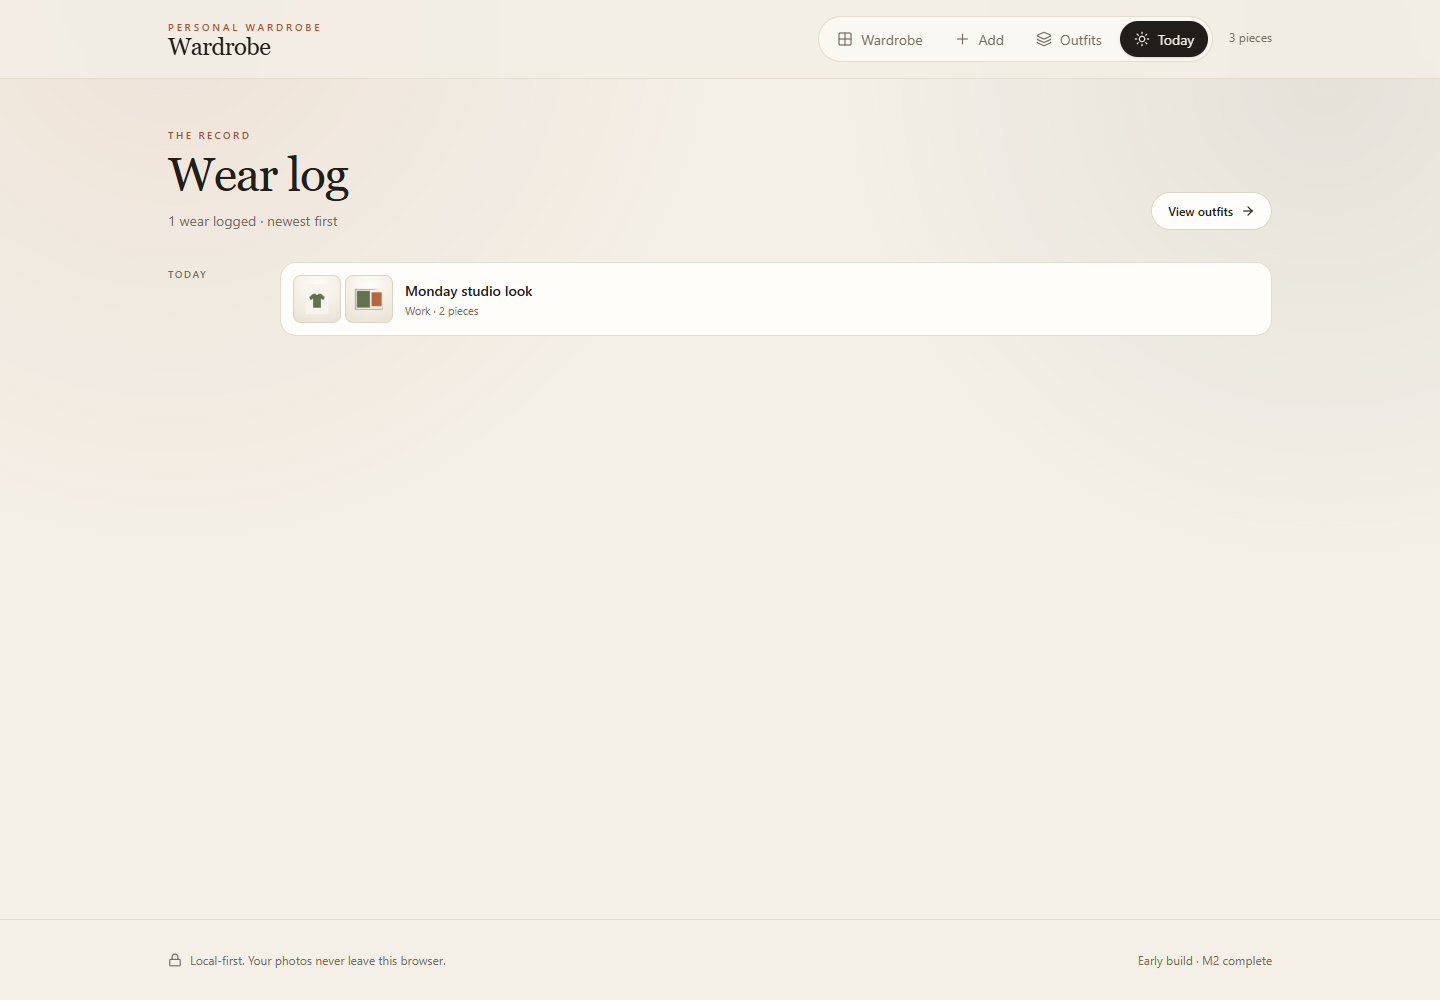
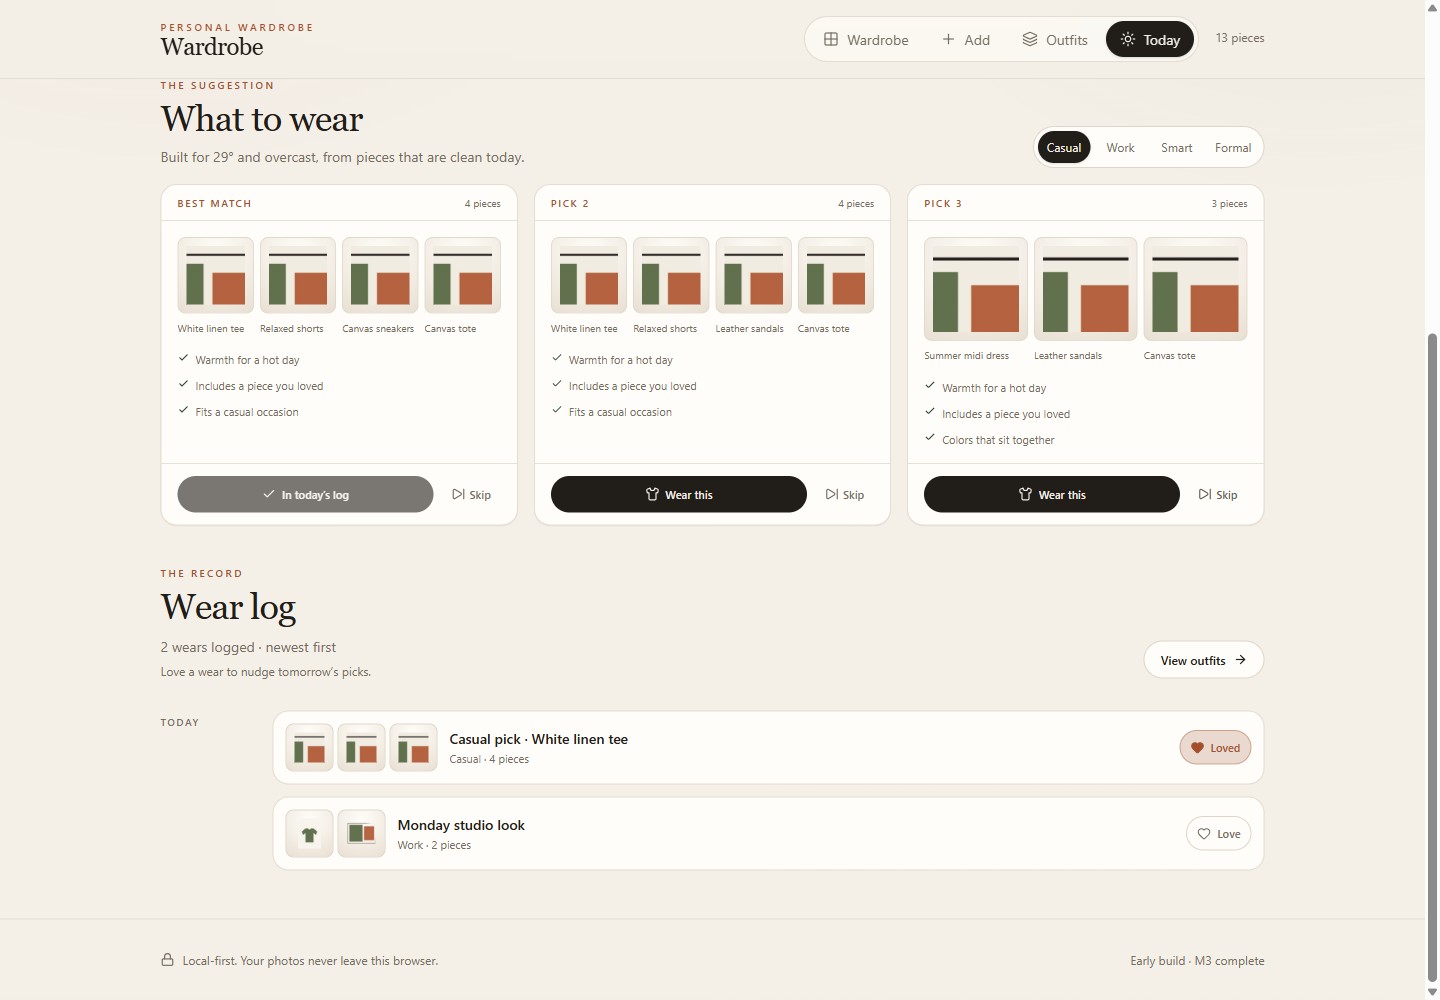
feat(wear): let a loved look shape tomorrow's picks

diff --git a/src/components/WearHistoryView.tsx b/src/components/WearHistoryView.tsx
@@ -1,10 +1,14 @@
 import { useLiveQuery } from 'dexie-react-hooks'
-import { ArrowRight, Sun } from 'lucide-react'
+import { ArrowRight, Heart, Sun } from 'lucide-react'
 import { useState } from 'react'
 import { db } from '../db'
 import { pieceCountLabel } from '../lib/outfits'
 import { buildWearHistory, describeWornOn } from '../lib/wear'
-import { OCCASION_LABELS, type WardrobeItem } from '../types'
+import {
+  OCCASION_LABELS,
+  type WardrobeItem,
+  type WearEvent,
+} from '../types'
 import { ItemThumbnail } from './ItemThumbnail'
 
 interface WearHistoryViewProps {
@@ -14,6 +18,8 @@ interface WearHistoryViewProps {
 
 export function WearHistoryView({ items, onSeeOutfits }: WearHistoryViewProps) {
   const [today] = useState(() => new Date())
+  const [pendingId, setPendingId] = useState<number | null>(null)
+  const [error, setError] = useState<string | null>(null)
   const outfits = useLiveQuery(() => db.outfits.toArray(), [])
   const events = useLiveQuery(
     () => db.wearEvents.orderBy('wornOn').reverse().toArray(),
@@ -22,6 +28,23 @@ export function WearHistoryView({ items, onSeeOutfits }: WearHistoryViewProps) {
 
   const entries =
     events && outfits ? buildWearHistory(events, outfits, items) : null
+
+  async function toggleLoved(event: WearEvent) {
+    if (event.id === undefined || pendingId !== null) return
+
+    setError(null)
+    setPendingId(event.id)
+
+    try {
+      await db.wearEvents.update(event.id, {
+        feedback: event.feedback === 'loved' ? undefined : 'loved',
+      })
+    } catch {
+      setError('Could not save that. Try again.')
+    } finally {
+      setPendingId(null)
+    }
+  }
 
   return (
     <div className="space-y-8">
@@ -40,6 +63,11 @@ export function WearHistoryView({ items, onSeeOutfits }: WearHistoryViewProps) {
                 : `${entries.length} ${entries.length === 1 ? 'wear' : 'wears'} logged · newest first`
               : 'Loading your wear log'}
           </p>
+          {entries && entries.length > 0 && (
+            <p className="mt-1.5 text-xs text-muted">
+              Love a wear to nudge tomorrow’s picks.
+            </p>
+          )}
         </div>
 
         {entries && entries.length > 0 && (
@@ -80,10 +108,21 @@ export function WearHistoryView({ items, onSeeOutfits }: WearHistoryViewProps) {
         </section>
       ) : (
         <section aria-label="Wear history" className="space-y-3">
+          {error && (
+            <p
+              role="alert"
+              className="rounded-xl border border-red-200 bg-red-50 px-3 py-2 text-xs leading-5 text-red-800"
+            >
+              {error}
+            </p>
+          )}
+
           {entries.map((entry, index) => {
             const showDate =
               index === 0 ||
               entries[index - 1].event.wornOn !== entry.event.wornOn
+            const loved = entry.event.feedback === 'loved'
+            const pending = pendingId === entry.event.id
 
             return (
               <div
@@ -125,6 +164,40 @@ export function WearHistoryView({ items, onSeeOutfits }: WearHistoryViewProps) {
                         : 'This look is no longer saved'}
                     </p>
                   </div>
+
+                  {entry.event.id !== undefined && (
+                    <button
+                      type="button"
+                      onClick={() => {
+                        void toggleLoved(entry.event)
+                      }}
+                      disabled={pendingId !== null}
+                      aria-pressed={loved}
+                      aria-label={
+                        loved
+                          ? 'Remove love from this wear'
+                          : 'Love this wear'
+                      }
+                      className={[
+                        'inline-flex shrink-0 items-center gap-1.5 rounded-full border px-2.5 py-2 text-[11px] font-medium transition focus-visible:outline-2 focus-visible:outline-offset-2 focus-visible:outline-accent disabled:cursor-not-allowed disabled:opacity-60',
+                        loved
+                          ? 'border-accent/40 bg-accent-soft text-accent'
+                          : 'border-line bg-card text-muted hover:border-ink/30 hover:text-ink',
+                      ].join(' ')}
+                    >
+                      <Heart
+                        className={[
+                          'h-3.5 w-3.5',
+                          loved ? 'fill-current' : '',
+                          pending ? 'animate-pulse' : '',
+                        ].join(' ')}
+                        strokeWidth={1.8}
+                      />
+                      <span className="hidden sm:inline">
+                        {loved ? 'Loved' : 'Love'}
+                      </span>
+                    </button>
+                  )}
                 </div>
               </div>
             )

diff --git a/src/App.tsx b/src/App.tsx
@@ -118,7 +118,7 @@ function App() {
             <Lock className="h-3.5 w-3.5" />
             Local-first. Your photos never leave this browser.
           </p>
-          <p>Early build · M3 in progress</p>
+          <p>Early build · M3 complete</p>
         </div>
       </footer>
 

diff --git a/docs/architecture.md b/docs/architecture.md
@@ -1,6 +1,6 @@
 # Architecture
 
-## Current shape (M3 in progress)
+## Current shape (M3 complete)
 
 ```mermaid
 flowchart LR
@@ -165,6 +165,8 @@ The read view for a saved look: the name, when it was saved, the occasion, every
 
 The wear log, now the second section of the Today page. It reads `wearEvents` and `outfits` live, builds the joined history with `buildWearHistory`, and groups rows by day: the date label only appears on the first row of each day. Each row shows up to three piece thumbnails, the look’s current name, its occasion, and how many pieces remain. Empty states distinguish “save a look first” from “nothing worn yet” and link to the outfits tab.
 
+Each row also carries a heart toggle. It updates only that wear event’s `feedback` field — `loved`, or removed again — and disables the other hearts while the write is in flight. The live query then refreshes both the row and the suggestion panel, because `lovedItemIds` reads the same events. The label is icon-only on mobile and “Love” / “Loved” from `sm` up, with `aria-pressed` carrying the state for assistive tech. A failed write shows a short inline alert instead of pretending the tap worked.
+
 ### `src/components/ItemThumbnail.tsx`
 
 A shared decorative thumbnail for outfit collages and summary strips. It creates and revokes an object URL for the item Blob, marks the image `aria-hidden`, and relies on the name rendered beside it. Pieces without a photo fall back to a quiet "No photo" block.
@@ -289,7 +291,7 @@ scoring
 top 3 + explanation
 ```
 
-Shipped in `src/lib/recommend.ts` with the caps and ranges described above. The first version is rules-based: with one user and a small wardrobe, learned ranking has nothing to learn from. The remaining feedback work is the loved/skip wiring in the UI and the last M3 polish; weights stay hand-tuned.
+Shipped in `src/lib/recommend.ts` with the caps and ranges described above. The first version is rules-based: with one user and a small wardrobe, learned ranking has nothing to learn from. Loved looks are the one feedback signal that moves a score today; skips only hide a pick for the day, and the weights stay hand-tuned rather than fitted.
 
 ### Deployment
 

diff --git a/README.md b/README.md
@@ -2,7 +2,7 @@
 
 A local-first virtual wardrobe. Add a garment with one photo, let the app pull its main colors, and build a closet you can actually use. The long-term goal is a daily outfit suggestion based on the weather, the occasion, and what is clean.
 
-> **Status: M3 in progress.** Add, edit, crop, cut out, and back up a local wardrobe, build and save looks from it, keep a wear log, check today’s weather, and get up to three outfit suggestions with a reason. Everything personal stays in your browser — no account, no backend, no paid API.
+> **Status: M3 complete.** Add, edit, crop, cut out, and back up a local wardrobe, build and save looks from it, keep a wear log, check today’s weather, and get up to three outfit suggestions that learn a little from the looks you love. Everything personal stays in your browser — no account, no backend, no paid API.
 
 **Live:** https://hanandibud.github.io/wardrobe/
 
@@ -30,6 +30,7 @@ A local-first virtual wardrobe. Add a garment with one photo, let the app pull i
 - Choose casual, work, smart, or formal before picking
 - Press “Wear this” to save the look and log the wear in one step
 - Skip a pick for the rest of the day
+- Love a wear in the log so pieces from that look rise in later picks
 - Open a piece to see its details
 - Mark a piece clean, needs wash, or in laundry
 - Remove a piece
@@ -60,7 +61,6 @@ A local-first virtual wardrobe. Add a garment with one photo, let the app pull i
 
 ## Planned
 
-- Wear feedback (loved, liked, skipped) on the log
 - Installable PWA
 - Skin-tone and color-preference tuning (as a preference, not a scientific claim)
 
@@ -89,7 +89,7 @@ No Vercel, Supabase, or paid AI API is required. If the app later needs multi-de
 - `culori` for color conversion and Delta E
 - `@imgly/background-removal` on `onnxruntime-web` for the in-browser cutout
 - Lucide icons
-- Open-Meteo (planned)
+- Open-Meteo for weather (keyless)
 - GitHub Pages (live)
 
 ## Run it

diff --git a/docs/devlog.md b/docs/devlog.md
@@ -2,6 +2,18 @@
 
 A short, append-only record of what changed and why. Newest entries first.
 
+## 2026-11-18 — M3: love a look, and the picks remember
+
+- Added a heart toggle to every wear-log row. It flips `WearEvent.feedback` between `loved` and absent, one event at a time; the other hearts disable while the write is in flight so a fast double tap cannot race.
+- The toggle is icon-only on mobile and “Love” / “Loved” from `sm` up. `aria-pressed` plus a state-specific `aria-label` carry the meaning without relying on color. A failed write shows an inline alert.
+- This closes the feedback loop that was already in the engine: `lovedItemIds` reads the same events, so loving a wear immediately adds the “Includes a piece you loved” reason and a small item bonus to later picks. No new scoring code was needed.
+- Skips stay what they were: a per-day hide in `localStorage`, explicitly not training data.
+- No schema change. `feedback` was already in the `WearEvent` type and Dexie stores the whole object, so the first three milestones needed no migration.
+- Marked M3 complete in the roadmap and README, updated the architecture and data-model notes, and moved the footer to “Early build · M3 complete”.
+- Verified in a browser: love a row, reload, the state persists; unlove it, the field disappears and the picks lose the loved reason; at 390 px the hearts stay icon-only with no horizontal overflow.
+
+**Next:** M4 — installable PWA, then screenshots and a demo pass.
+
 ## 2026-11-18 — M3: three picks, and the reason why
 
 - Added `src/lib/recommend.ts` as the rules-based suggestion engine. It is pure apart from the per-day skip store, so every filter and score is testable.

diff --git a/docs/roadmap.md b/docs/roadmap.md
@@ -47,7 +47,7 @@ Each milestone is a shippable slice, not a folder of half-finished experiments. 
 
 **Delivered (2026-11-18):** three reviewable slices — build and save with a list, then a detail with rename and delete, then wear logging and history.
 
-## M3 — Daily suggestion
+## M3 — Daily suggestion (done)
 
 - [x] Weather module (Open-Meteo, geolocation permission)
 - [x] Weather cache and manual location fallback
@@ -55,12 +55,14 @@ Each milestone is a shippable slice, not a folder of half-finished experiments. 
 - [x] Rule-based candidate generation
 - [x] Scoring: color harmony, formality, warmth, recency, availability
 - [x] Top 3 suggestions with a short “why”
-- [ ] Feedback: wore / skipped / loved
+- [x] Feedback: wore / skipped / loved
 - [x] Tests for scoring and hard filters
 
 **Acceptance:** on a rainy 12°C day, the app does not suggest sandals and a linen shirt; on a 30°C day, it does not suggest a heavy coat. Every suggestion only uses clean items.
 
 **Plan (2026-11-18):** three slices — weather and its cache, then the rules-based suggestion with an occasion picker, then feedback and polish. Slice one shipped the Today page, the weather card, and the location fallback. Slice two shipped the recommendation engine, the occasion picker, “Wear this”, and per-day skips.
+
+**Delivered (2026-11-18):** slice three added loved feedback to the wear log. Loving a logged wear marks its saved look, and pieces from a loved look get a small bonus in later picks with the reason “Includes a piece you loved”. Skips stay a per-day convenience and do not train the ranking.
 
 ## M4 — Personal and portable
 

diff --git a/docs/data-model.md b/docs/data-model.md
@@ -79,7 +79,7 @@ Indexes are chosen for the planned queries:
 - `WearEvent.wornOn` is a local calendar date (`YYYY-MM-DD`), not a UTC timestamp, so an evening wear stays on the day it happened.
 - One wear per look per day is a UI rule. The table has no unique index; `OutfitDetail` checks for an existing row before writing and again inside the click handler.
 - Deleting a look deletes its wear events in the same transaction, so the log never points at a missing outfit.
-- `WearEvent.feedback` is unused until M3, and `WardrobeItem.lastWornAt` is still unused; recency scoring arrives with the daily suggestion.
+- `WearEvent.feedback` is used from M3 slice 3: the wear log toggles it between `loved` and absent. Only `loved` changes a suggestion score; the other values exist in the union but are never written. `WardrobeItem.lastWornAt` is still unused — recency is derived from the wear events instead of stored on the item.
 
 ## Weather cache (localStorage)
 
